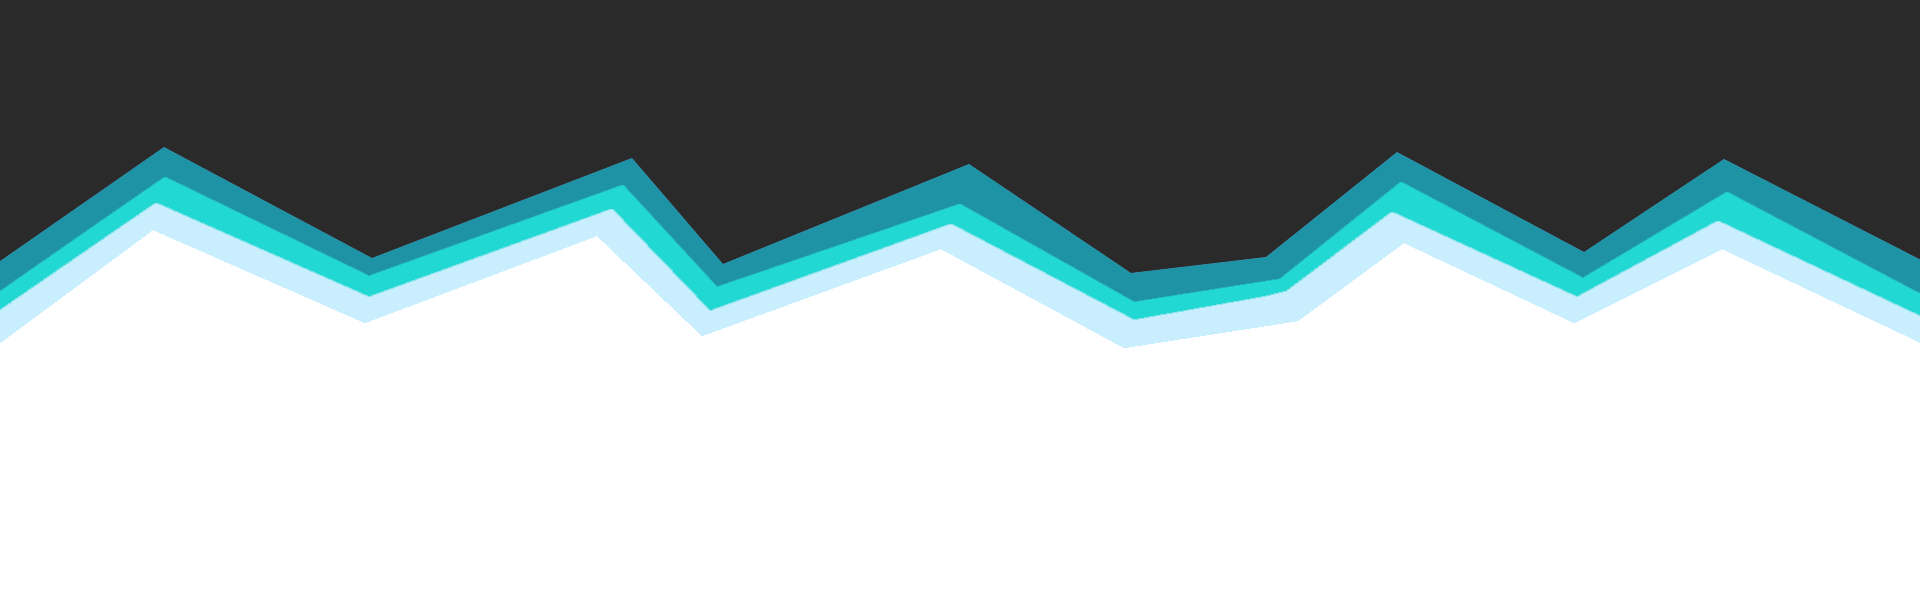
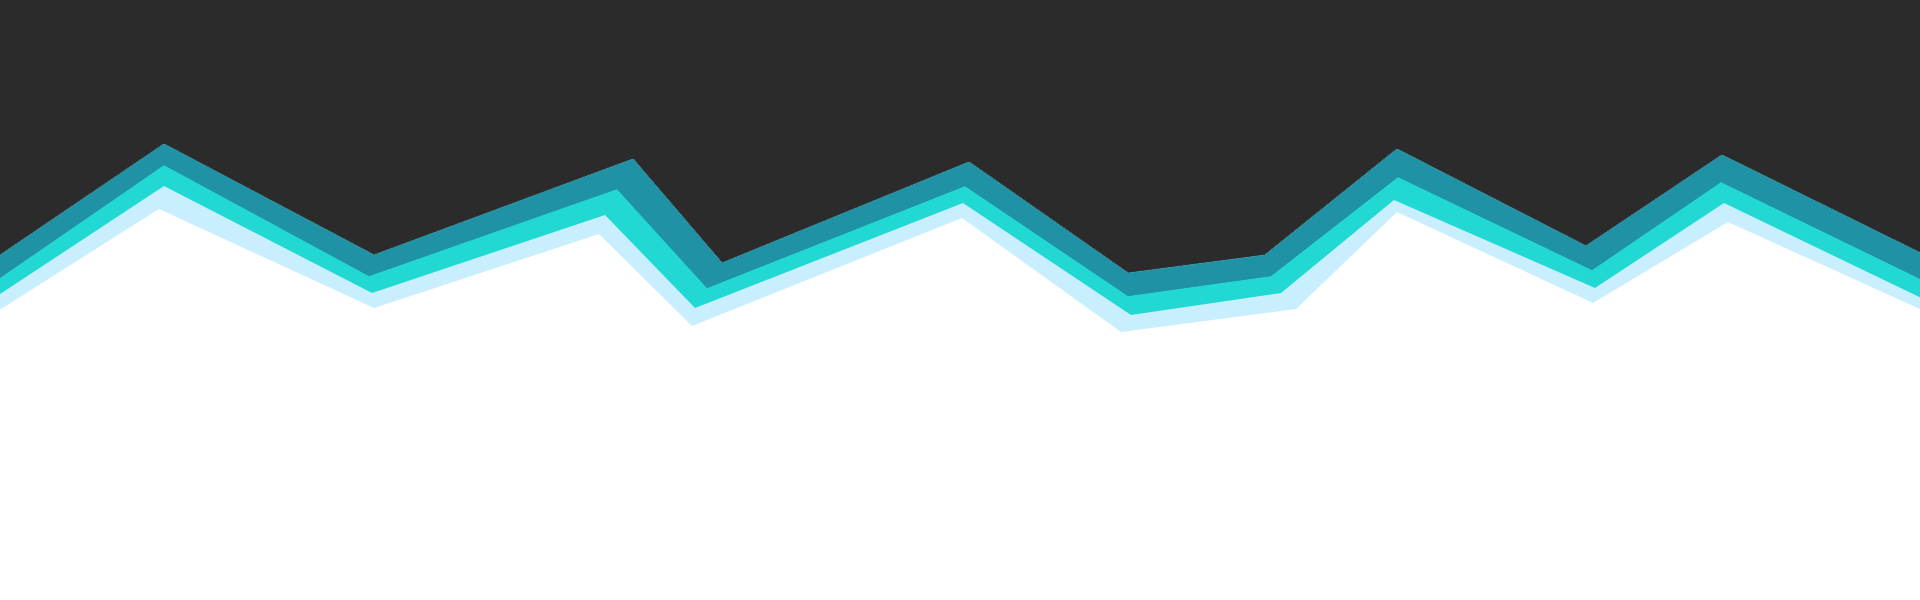
ui updates

Changed region(s): [[0.0, 0.24, 1.0, 0.6]]

diff --git a/src/app/page.tsx b/src/app/page.tsx
@@ -96,7 +96,7 @@ export default function Page() {
                 <Image width={1920} height={600}
                     src={"/assets/bgs/block-top-bg.png"}
                     alt="block-top-bg"
-                    className="absolute top-0 w-full rounded-t-2xl"
+                    className="absolute top-0 w-full rounded-t-2xl blur-sm"
                 />
             </div>
 
@@ -109,7 +109,7 @@ export default function Page() {
                 <Image width={800} height={800}
                     src={"/assets/bgs/block-top-right-bg.png"}
                     alt="block-top-bg"
-                    className="absolute top-0 right-0 w-48 md:w-[600px] z-0 rounded-tr-2xl"
+                    className="absolute top-0 right-0 w-48 md:w-[600px] z-0 rounded-tr-2xl blur-sm"
                 />
                 <div className="flex flex-row flex-wrap justify-center items-center gap-5 h-fit mb-48 lg:mb-56">
                     {
@@ -134,7 +134,7 @@ export default function Page() {
                 <Image width={800} height={800}
                     src={"/assets/bgs/block-top-right-bg.png"}
                     alt="block-top-bg"
-                    className="absolute bottom-0 left-0 w-48 md:w-[600px] z-0 rotate-180 rounded-tr-2xl"
+                    className="absolute bottom-0 left-0 w-48 md:w-[600px] z-0 rotate-180 rounded-tr-2xl blur-sm"
                 />
             </div>
 
@@ -162,7 +162,7 @@ export default function Page() {
                 <Image width={1920} height={600}
                     src={"/assets/bgs/block-top-bg.png"}
                     alt="block-top-bg"
-                    className="absolute bottom-0 w-full rotate-180 z-0 rounded-t-2xl"
+                    className="absolute bottom-0 w-full rotate-180 z-0 rounded-t-2xl blur-sm"
                 />
             </div>
             <div className="m-2 md:mx-4 md:mt-4">

diff --git a/src/components/common/footer/footer.tsx b/src/components/common/footer/footer.tsx
@@ -61,7 +61,7 @@ export default function Footer() {
             <Image width={190} height={190} src="/assets/drawings/drawing-3.png" alt="drawing-3" className="absolute bottom-4 md:bottom-0 right-0 z-10 hidden md:block"/>  
             <Image width={130} height={130} src="/assets/figures/cube-rounded.svg" alt="cube-rounded" className="rotate-12 absolute top-3 md:top-32 mix-blend-luminosity right-3 md:right-96 z-10 opacity-70"/>         
             <Image width={70} height={70} src="/assets/figures/bubble.svg" alt="bubble" className="absolute top-32 mix-blend-luminosity right-3 md:left-72 z-10 opacity-70"/>
-            <Image width={700} height={400} src="/assets/bgs/footer-bg-right.png" alt="footer-bg-right" className="absolute bottom-0 right-0 rounded-br-2xl z-0"/>
+            <Image width={700} height={400} src="/assets/bgs/footer-bg-right.png" alt="footer-bg-right" className="absolute bottom-0 right-0 rounded-br-2xl z-0 blur-sm"/>
         </footer>
     );
 }
